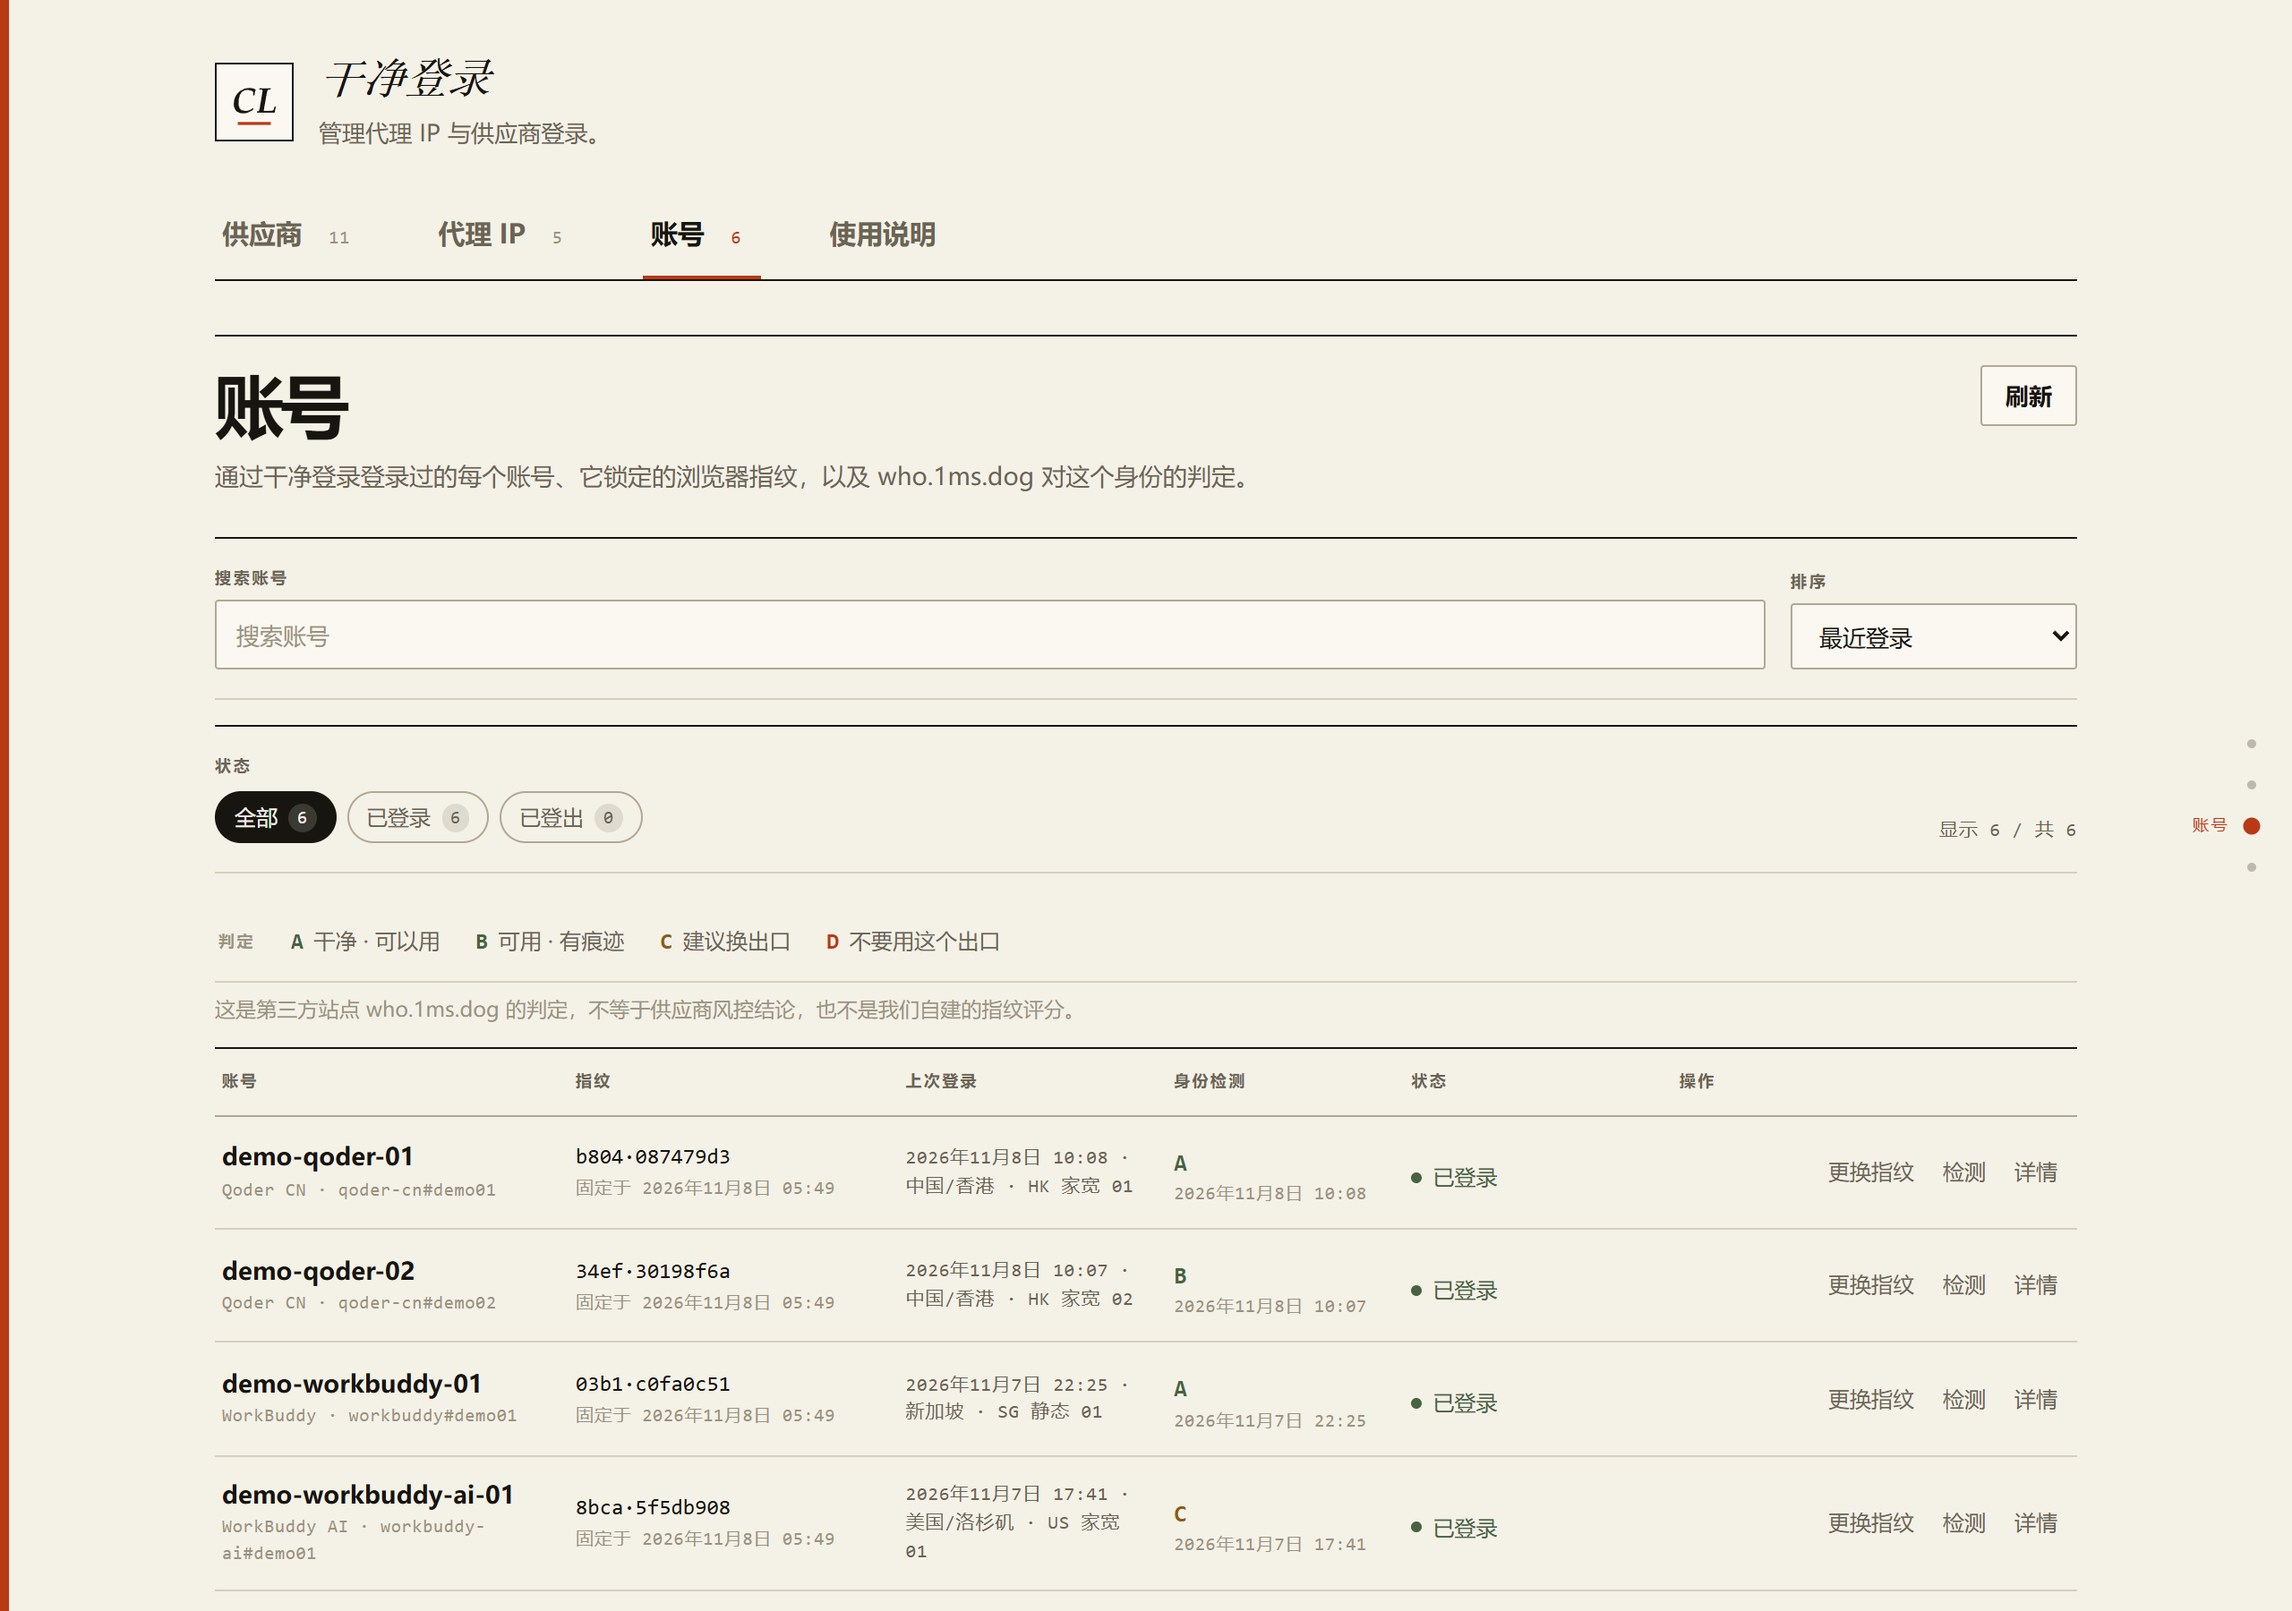
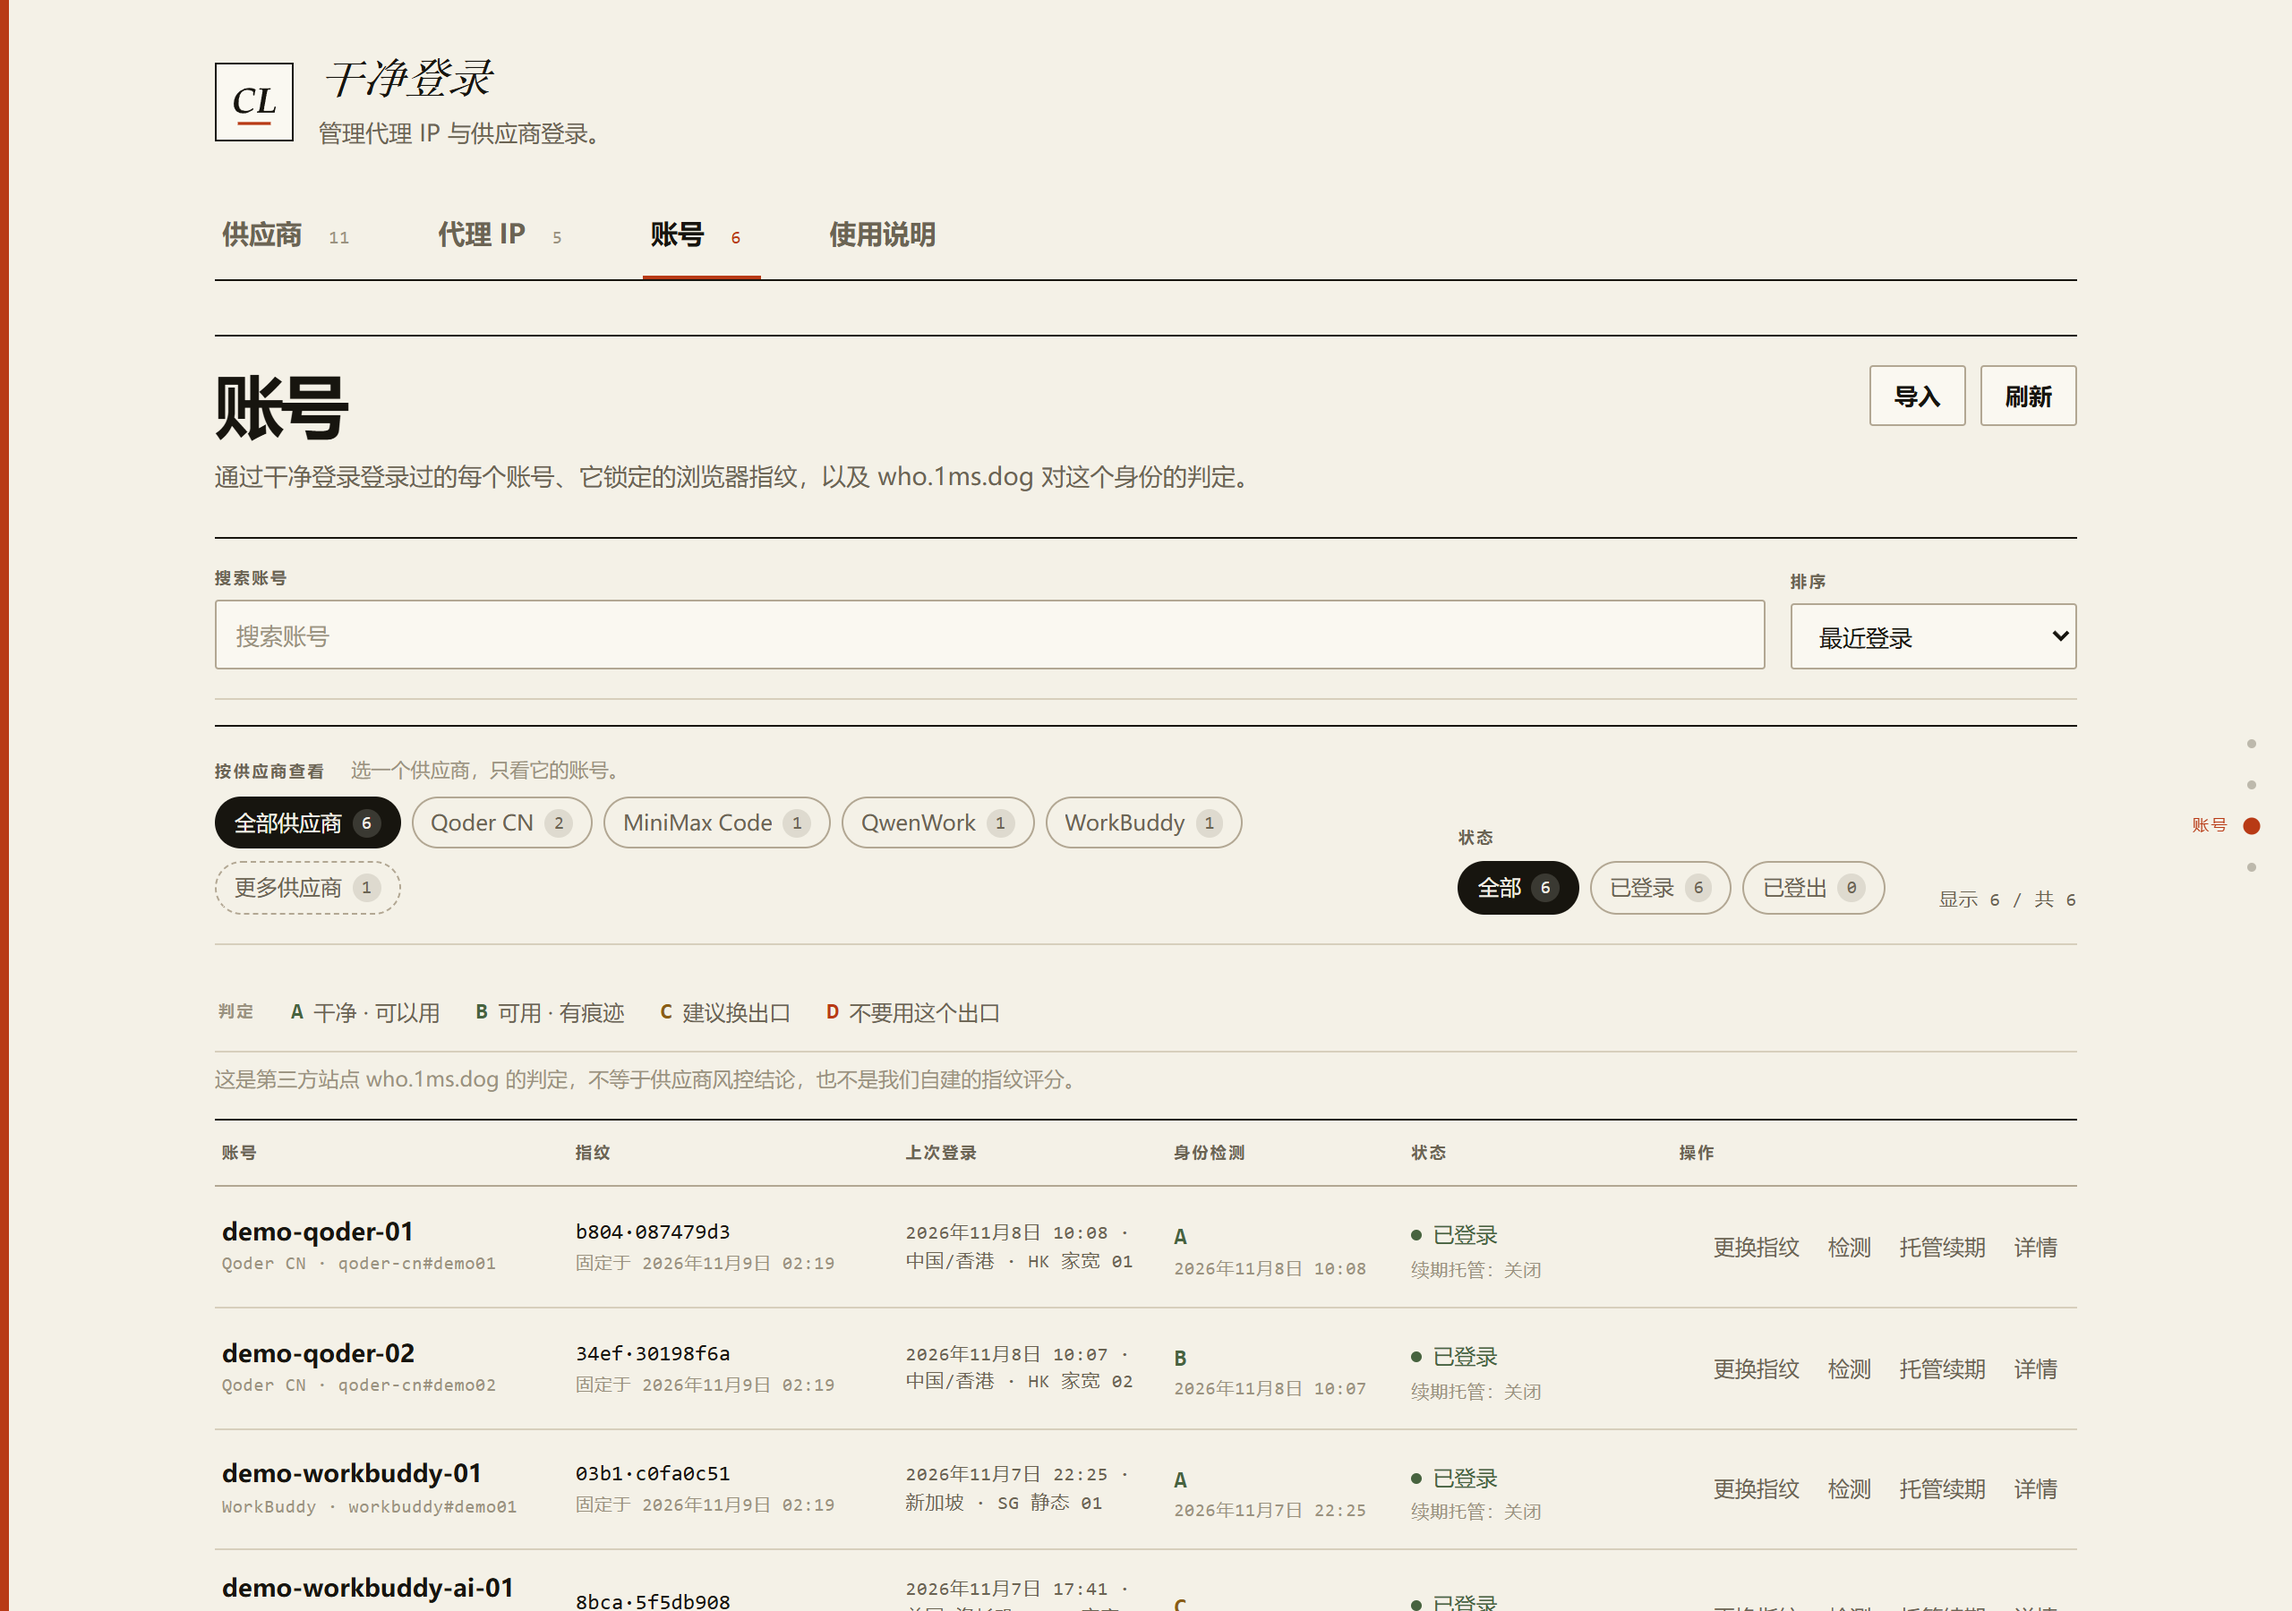
docs(readme): show the new accounts filter and correct the guide section count
The regenerated accounts screenshot now contains the provider picker, so
describe it in both READMEs and name it in the alt text. The in-page guide
has eleven sections since hosted renewal was added, but both READMEs still
said ten; fix the count and list renewal among the topics.

The screenshot is produced by the existing reproducible generator, which
injects a neutral install path and free-disk figure so no machine identity
leaks into a public README.

diff --git a/README.en.md b/README.en.md
@@ -143,9 +143,11 @@ On success you get: **Signed in. The credential was written to magpie.**
 
 Switch to **Accounts**. You see the account you just signed in to, its pinned fingerprint, and the exit used last time.
 
+Once you have several accounts, **View by provider** narrows the table to one provider: the main row carries the busiest ones and **More providers** holds the rest, searchable by name or id. It combines with the status filter, the search box and sorting, and **Clear filters** resets all of them at once.
+
 For a second opinion, click **Check** on that row, then **Start check**. The plugin visits the third-party site `who.1ms.dog` through that account's exit and reports an A/B/C/D verdict.
 
-![The Accounts page: the A/B/C/D legend, each account's pinned fingerprint, and the region and exit of its last sign-in](assets/screenshot-accounts.png)
+![The Accounts page: the provider filter, the A/B/C/D legend, each account's pinned fingerprint, and the region and exit of its last sign-in](assets/screenshot-accounts.png)
 
 - **A clean · usable** / **B usable · traces** / **C consider another exit** / **D do not use this exit**
 - A C or D means that exit is not clean enough. Switch proxies and sign that account in again.
@@ -163,9 +165,9 @@ For a second opinion, click **Check** on that row, then **Start check**. The plu
 
 **Accounts** — every account you signed in to, the browser fingerprint pinned to it, and what the third-party site thinks of that identity. See step 4 above.
 
-**Guide** — an in-page manual written for a first-time user: ten sections covering why this plugin exists, preparing the browser, adding a proxy, signing an account in, reading the identity verdict, and handing the whole thing to your own agent when you would rather not click. Written separately in all four languages, not machine-translated from English. Plain text: no network, no downloads, nothing executed.
+**Guide** — an in-page manual written for a first-time user: eleven sections covering why this plugin exists, preparing the browser, adding a proxy, signing an account in, reading the identity verdict, hosted renewal, and handing the whole thing to your own agent when you would rather not click. Written separately in all four languages, not machine-translated from English. Plain text: no network, no downloads, nothing executed.
 
-![The Guide tab: the first of ten in-page sections, explaining why this plugin exists](assets/screenshot-guide.png)
+![The Guide tab: the first of eleven in-page sections, explaining why this plugin exists](assets/screenshot-guide.png)
 
 > **About these screenshots:** all four are rendered by this repository's current code in a real Chrome — nothing hand-drawn, nothing composited, no page element substituted. Four things in them are demo data, because the alternative would put the generating machine's details in a public repository: the **account and proxy records** use documentation-reserved IPs (`203.0.113.x`, `198.51.100.x`, `192.0.2.x`) and invented account names, and the **install path and free-disk figure in the login-browser panel** are neutral values (`C:\Users\Public\…` and a round 256 GB) rather than this machine's OS account name and how full its drive is. The badge state, the download size and the required space are computed by the shipped code. The provider cards, logos and interface text are real. The generator is [`scripts/shoot-readme-screenshots.mjs`](scripts/shoot-readme-screenshots.mjs); run `bun scripts/shoot-readme-screenshots.mjs` to reproduce all four.
 

diff --git a/README.md b/README.md
@@ -143,9 +143,11 @@
 
 切到 **账号** 标签页，你会看到刚登进去的账号、它固定的指纹、上次登录用的出口。
 
+账号多了以后，用 **按供应商查看** 只看某一家的账号：主行是最常用的几家，其余全部收在 **更多供应商** 里，展开后可以按名称或标识搜索。它和状态筛选、搜索、排序可以叠加使用，右边的 **清除筛选** 一次全部复位。
+
 想再确认一下，点这一行的 **检测**，再点 **开始检测**。插件会通过这个账号的出口去访问第三方站点 `who.1ms.dog`，让它给出一个 A/B/C/D 判定。
 
-![账号页：A/B/C/D 判定图例、每个账号固定的指纹、上次登录的地区与出口](assets/screenshot-accounts.png)
+![账号页：按供应商筛选、A/B/C/D 判定图例、每个账号固定的指纹、上次登录的地区与出口](assets/screenshot-accounts.png)
 
 - **A 干净·可以用** / **B 可用·有痕迹** / **C 建议换出口** / **D 不要用这个出口**
 - 拿到 C 或 D，说明这条出口不太干净，换一条代理重新登录即可。
@@ -163,9 +165,9 @@
 
 **账号** —— 每个登录过的账号、它锁定的浏览器指纹，以及第三方站点对这个身份的判定。详见上面第 4 步。
 
-**使用说明** —— 页内自带一份写给第一次使用者的说明书，十节讲清为什么要开发这个插件、准备浏览器、加代理、登录账号、看懂身份检测结论，以及不会用时怎么直接交给你的 agent。四种语言各写一份，不是把英文句子机翻过去。纯文字页面，不联网、不下载、不执行任何东西。
+**使用说明** —— 页内自带一份写给第一次使用者的说明书，十一节讲清为什么要开发这个插件、准备浏览器、加代理、登录账号、看懂身份检测结论、续期托管，以及不会用时怎么直接交给你的 agent。四种语言各写一份，不是把英文句子机翻过去。纯文字页面，不联网、不下载、不执行任何东西。
 
-![使用说明页：页内十节说明书的第一节，讲清为什么要开发这个插件](assets/screenshot-guide.png)
+![使用说明页：页内十一节说明书的第一节，讲清为什么要开发这个插件](assets/screenshot-guide.png)
 
 > **关于这些截图：** 全部由本仓库当前的代码在真实 Chrome 里渲染，没有手绘、没有拼接、没有替换任何页面元素。其中有四样是演示数据，因为它们会把生成截图那台机器的信息发到公开仓库：**账号与代理记录**用文档保留段 IP（`203.0.113.x`、`198.51.100.x`、`192.0.2.x`）和虚构账号名；**登录浏览器面板里的安装位置与可用磁盘**也是中性值（`C:\Users\Public\…` 与一个整数 256 GB），因为不这么做的话那张图里就会出现这台机器的账户名和磁盘水位。徽标状态、下载大小与需求空间是 shipped 代码真的算出来的。供应商卡片、logo、界面文案都是真的。生成脚本是 [`scripts/shoot-readme-screenshots.mjs`](scripts/shoot-readme-screenshots.mjs)，跑 `bun scripts/shoot-readme-screenshots.mjs` 就能重出这四张图。
 
